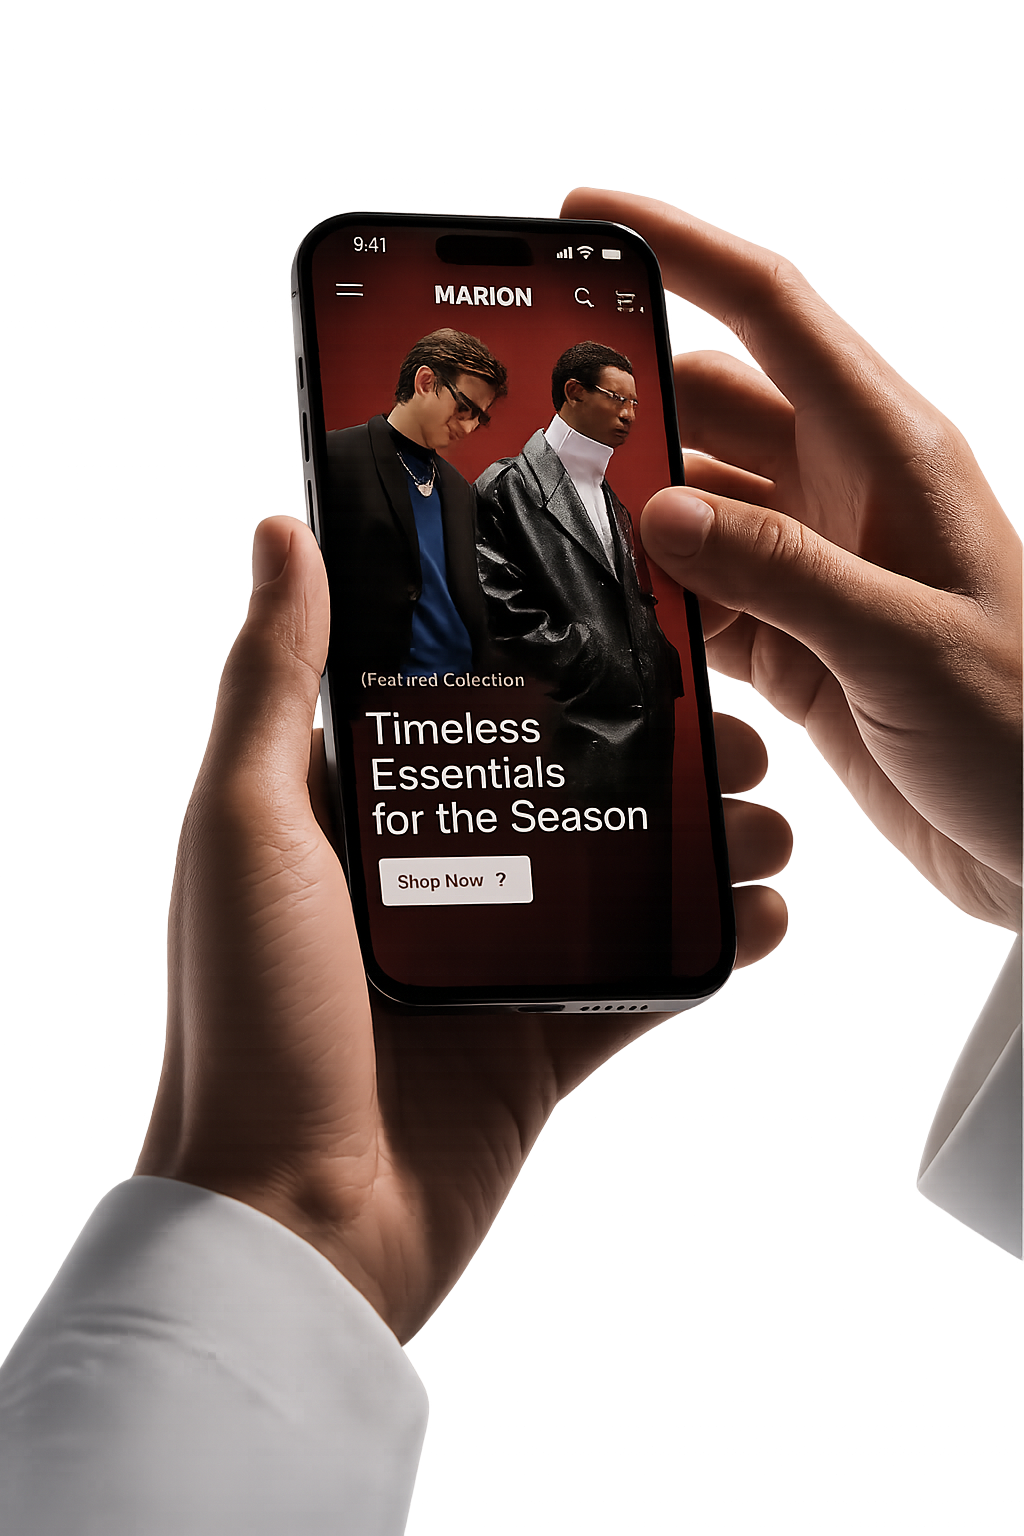
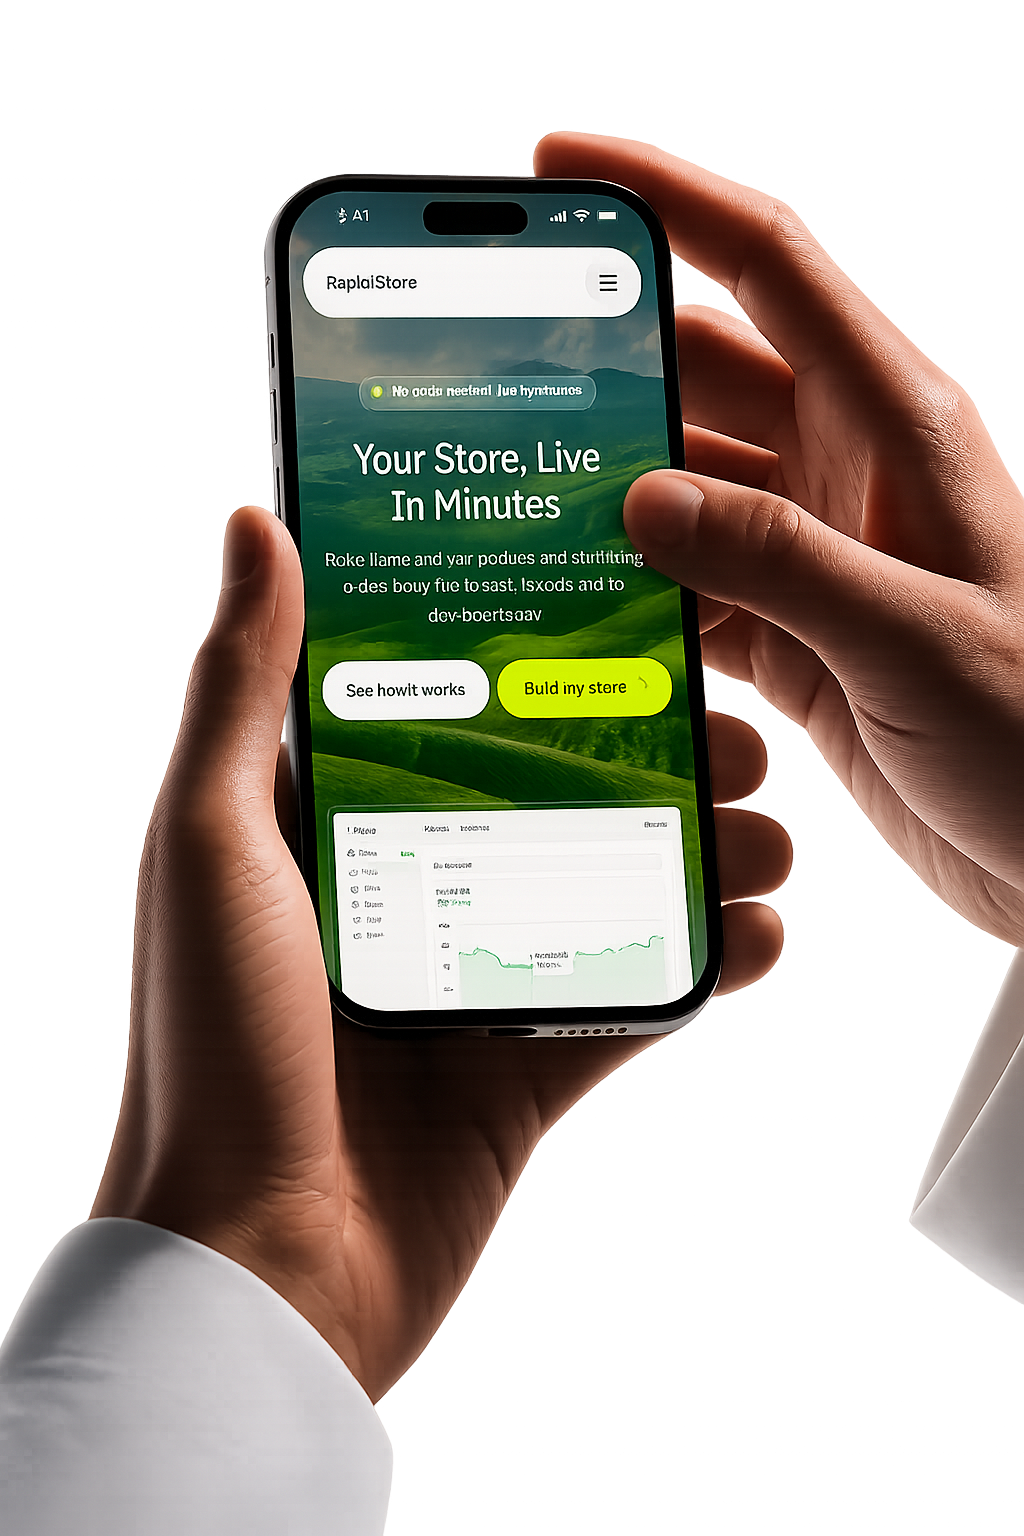
project completed

diff --git a/src/components/projects/Projects.jsx b/src/components/projects/Projects.jsx
@@ -4,7 +4,7 @@ import { Fragment, useEffect, useRef, useState } from "react";
 import ProjectCard from "./ProjectCard";
 import "./Projects.scss";
 
-const TITLE = "check out some of my work";
+const TITLE = "Check out some of my work";
 const WORDS = TITLE.split(" ");
 
 // Same content 5× for now — swap each entry's title/desc/tags/image/year
@@ -12,43 +12,48 @@ const WORDS = TITLE.split(" ");
 const PROJECTS = [
   {
     num: "01",
-    year: "2025",
-    title: "The checkout, rebuilt for 5M+ homes",
-    tags: ["Payments", "iOS & Android"],
-    desc: "A checkout redesign focused on reducing friction, improving payment adoption, and supporting over 1M+ monthly transactions.",
+    year: "2026",
+    title: "The store builder, made for online commerce",
+    tags: ["Sass Platform", "iOS & Android"],
+    desc: "A multi-tenant store builder enabling businesses to launch branded ecommerce stores with custom domains, code-free for all",
     image: "/project1.png",
+    link: "https://www.rapidstore.app/",
   },
   {
     num: "02",
-    year: "2025",
-    title: "The checkout, rebuilt for 5M+ homes",
-    tags: ["Payments", "iOS & Android"],
-    desc: "A checkout redesign focused on reducing friction, improving payment adoption, and supporting over 1M+ monthly transactions.",
-    image: "/project1.png",
+    year: "2026",
+    title: "Timeless Fashion, Made for Everyday Elegance",
+    tags: ["Stripe Payments", "Fashion Store"],
+    desc: "A fashion ecommerce demo featuring curated products, cart functionality, and secure Stripe checkout in a clean, responsive interface",
+    image: "/project2.png",
+    link: "https://ecom-chi-olive.vercel.app/",
   },
   {
     num: "03",
-    year: "2025",
-    title: "The checkout, rebuilt for 5M+ homes",
-    tags: ["Payments", "iOS & Android"],
-    desc: "A checkout redesign focused on reducing friction, improving payment adoption, and supporting over 1M+ monthly transactions.",
-    image: "/project1.png",
+    year: "2026",
+    title: "A playful storefront, imagined for modern brands",
+    tags: ["Editorial Design", "Brand Experience"],
+    desc: "A responsive landing page concept for a handcrafted plush toy brand, designed to capture warmth, and visual storytelling,",
+    image: "/project3.png",
+    link: "https://babemoss-ui.vercel.app/",
   },
   {
     num: "04",
-    year: "2025",
-    title: "The checkout, rebuilt for 5M+ homes",
-    tags: ["Payments", "iOS & Android"],
-    desc: "A checkout redesign focused on reducing friction, improving payment adoption, and supporting over 1M+ monthly transactions.",
-    image: "/project1.png",
+    year: "2026",
+    title: "The marketplace, built for entrepreneurs",
+    tags: ["Marketplace", "Community"],
+    desc: "A centralized platform where entrepreneurs showcase products, connect with customers, and grow their brands beyond social media",
+    image: "/project4.png",
+    link: " https://quickbay.in/",
   },
   {
     num: "05",
-    year: "2025",
-    title: "The checkout, rebuilt for 5M+ homes",
-    tags: ["Payments", "iOS & Android"],
-    desc: "A checkout redesign focused on reducing friction, improving payment adoption, and supporting over 1M+ monthly transactions.",
-    image: "/project1.png",
+    year: "2026",
+    title: "Where design meets engineering",
+    tags: ["Personal Brand", "Next.js"],
+    desc: "A personal website showcasing projects, technical skills, and a design-driven approach to building thoughtful, scalable web experiences",
+    image: "/project5.png",
+    
   },
 ];
 
@@ -70,7 +75,7 @@ const Projects = () => {
           obs.disconnect();
         }
       },
-      { threshold: 0.4 }
+      { threshold: 0.4 },
     );
 
     obs.observe(el);
@@ -129,7 +134,7 @@ const Projects = () => {
                 end: "top top",
                 scrub: true,
               },
-            }
+            },
           );
         });
       }, stackRef);
@@ -192,7 +197,8 @@ const Projects = () => {
 
         <p className="projects__subtitle">
           {/* A few products I&apos;ve helped shape, and the thinking behind them. */}
-          A few projects I&apos;ve built and contributed to, with the thinking behind them.
+          A few projects I&apos;ve built and contributed to, with the thinking
+          behind them.
         </p>
       </header>
 

diff --git a/src/components/projects/ProjectCard.jsx b/src/components/projects/ProjectCard.jsx
@@ -86,7 +86,9 @@ const ProjectCard = ({ project, index = 0 }) => {
 
           <a
             className="project__cta"
-            href="#"
+            href={project.link}
+            target="_blank"
+            rel="noopener noreferrer"
             onMouseEnter={growCursor}
             onMouseLeave={resetCursor}
           >